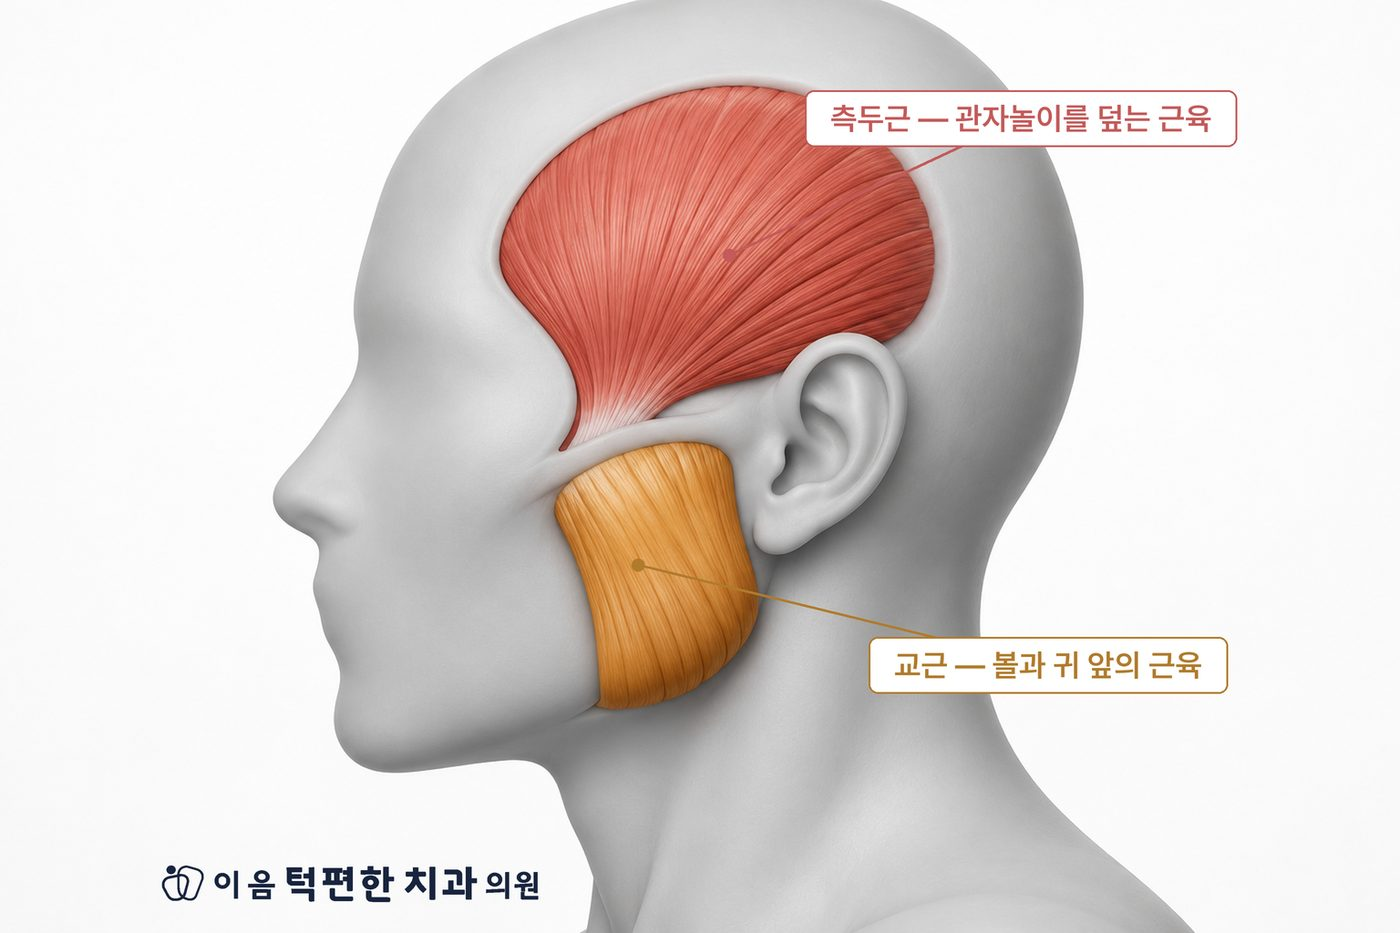
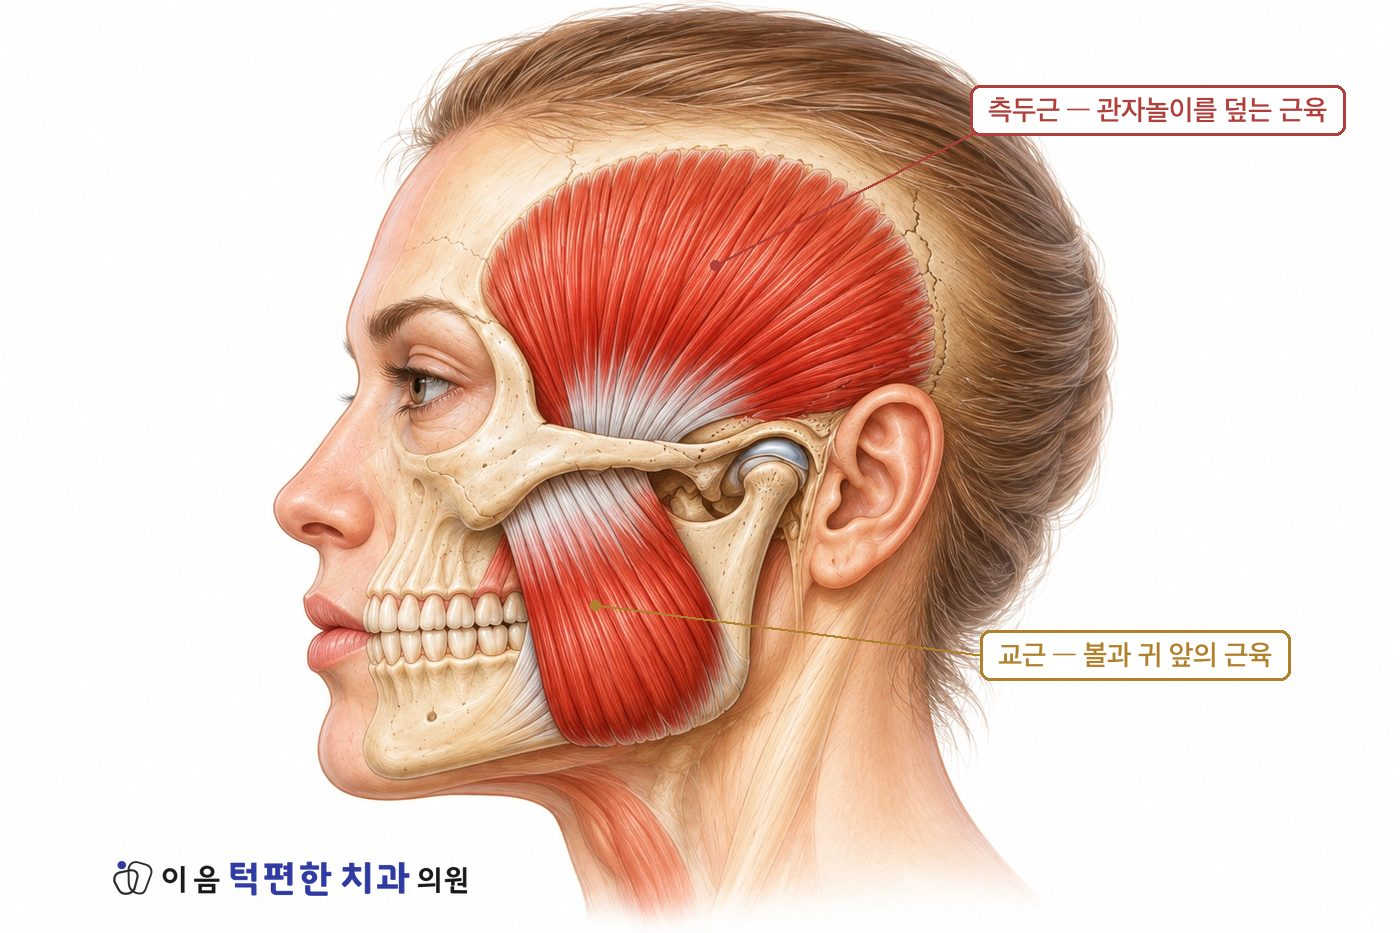
5

diff --git a/index.html b/index.html
@@ -130,14 +130,6 @@
     .jaw-cap b { color: var(--primary-dark); }
     .jaw-note { text-align: center; color: var(--text-light); font-size: 0.9rem; margin-top: 16px; }
     .jaw-note a { color: var(--primary); font-weight: 700; }
-    .symptom-grid { display: grid; grid-template-columns: repeat(4, 1fr); gap: 18px; }
-    .symptom-card { position: relative; background: #fff; border: 1px solid var(--border); border-radius: var(--radius); overflow: hidden; display: flex; flex-direction: column; transition: box-shadow 0.25s, transform 0.25s; }
-    .symptom-card:hover { box-shadow: 0 12px 28px rgba(15,76,99,0.14); transform: translateY(-3px); }
-    .symptom-card .card-photo { aspect-ratio: 3 / 2; overflow: hidden; }
-    .symptom-card .card-photo img { width: 100%; height: 100%; object-fit: cover; transition: transform 0.4s ease; }
-    .symptom-card:hover .card-photo img { transform: scale(1.04); }
-    .symptom-card .card-label { padding: 13px 8px; text-align: center; font-weight: 800; font-size: 1.02rem; color: var(--text); }
-    .symptom-card:hover .card-label { color: var(--primary); }
     .card-badge { position: absolute; z-index: 2; top: 10px; right: 10px; background: var(--primary); color: #fff; font-size: 0.74rem; font-weight: 700; padding: 4px 10px; border-radius: 999px; }
     .ba-compact { max-width: 680px; margin: 0 auto; }
     .asym-wrap { max-width: 440px; margin: 0 auto 34px; }
@@ -156,8 +148,56 @@
     .btn-line:hover { background: var(--primary); color: #fff; }
     @media (max-width: 860px) {
       .jaw-duo-main { grid-template-columns: 1fr; gap: 40px; }
-      .symptom-grid { grid-template-columns: repeat(2, 1fr); gap: 12px; }
-      .symptom-card .card-label { font-size: 0.92rem; padding: 10px 6px; }
+    }
+    /* ===== 턱관절 연관 증상: 증상 지도 ===== */
+    .symmap { display: grid; grid-template-columns: minmax(300px, 400px) 1fr; gap: 40px; align-items: center; }
+    .symmap-figure { position: relative; border-radius: var(--radius); overflow: hidden; border: 1px solid var(--border); background: #fff; }
+    .symmap-figure img { width: 100%; display: block; }
+    .symmap-glows { position: absolute; inset: 0; pointer-events: none; }
+    .symglow { position: absolute; border-radius: 50%;
+      background: radial-gradient(ellipse at center, rgba(203, 40, 28, 0.78) 0%, rgba(203, 40, 28, 0.4) 45%, rgba(203, 40, 28, 0) 72%);
+      animation: symGlow 1.6s ease-in-out infinite; }
+    @keyframes symGlow { 0%, 100% { opacity: 0.4; transform: scale(0.96); } 50% { opacity: 1; transform: scale(1.05); } }
+    .symmap-dot { position: absolute; width: 32px; height: 32px; margin: -16px 0 0 -16px; border-radius: 50%; cursor: pointer;
+      background: linear-gradient(180deg, #2a7fa1, var(--primary-dark)); color: #fff; font-weight: 800; font-size: 0.86rem;
+      display: flex; align-items: center; justify-content: center; font-family: inherit;
+      border: 2px solid #fff; box-shadow: 0 3px 0 rgba(15, 76, 99, 0.45), 0 5px 12px rgba(15, 76, 99, 0.3);
+      transition: transform 0.15s, background 0.2s, box-shadow 0.15s; }
+    .symmap-dot:hover { transform: scale(1.18); }
+    .symmap-dot:active { transform: translateY(2px); box-shadow: 0 1px 0 rgba(15, 76, 99, 0.45), 0 2px 6px rgba(15, 76, 99, 0.3); }
+    .symmap-dot.on { background: linear-gradient(180deg, #e4574a, #b03e3a); transform: scale(1.22); }
+    .symmap-list { list-style: none; display: grid; grid-template-columns: 1fr; gap: 12px; }
+    .symrow { display: flex; align-items: center; gap: 12px; padding: 13px 16px; cursor: pointer;
+      font-size: 1rem; color: var(--text);
+      background: linear-gradient(180deg, #ffffff, #f1f6f8); border: 1px solid var(--border); border-radius: 12px;
+      box-shadow: 0 5px 0 #c9d8e0, 0 9px 18px rgba(15, 76, 99, 0.12);
+      transition: transform 0.12s, box-shadow 0.12s, border-color 0.15s, background 0.15s; }
+    .symrow:hover { border-color: var(--primary); }
+    .symrow:hover .arr { transform: translateX(3px); }
+    .symrow:active { transform: translateY(5px); box-shadow: 0 0 0 #c9d8e0, 0 1px 3px rgba(15, 76, 99, 0.15); }
+    .symrow.on { background: linear-gradient(180deg, #fdf0ee, #fae3e0); border-color: #d08078; }
+    .symrow .no { flex: 0 0 26px; width: 26px; height: 26px; border-radius: 50%; background: var(--primary);
+      color: #fff; display: flex; align-items: center; justify-content: center; font-weight: 800; font-size: 0.82rem; }
+    .symrow.on .no { background: #c24a40; }
+    .symrow .t { font-weight: 800; }
+    .symrow .more { margin-left: auto; display: flex; align-items: center; gap: 5px; white-space: nowrap;
+      padding: 6px 12px; border-radius: 999px; background: #e3eef3; color: var(--primary-dark);
+      font-weight: 700; font-size: 0.82rem; transition: background 0.15s; }
+    .symrow:hover .more { background: var(--primary); color: #fff; }
+    .symrow .arr { transition: transform 0.15s; }
+    .symrow .mt-short { display: none; }
+    @media (max-width: 860px) {
+      .symmap { grid-template-columns: 1fr; gap: 22px; }
+      .symmap-figure { max-width: 420px; margin: 0 auto; }
+      .symmap-list { grid-template-columns: 1fr 1fr; gap: 10px 12px; }
+      .symrow .mt-full { display: none; }
+      .symrow .mt-short { display: inline; }
+    }
+    @media (max-width: 600px) {
+      .symmap-list { grid-template-columns: 1fr; }
+      .symrow .mt-full { display: inline; }
+      .symrow .mt-short { display: none; }
+      .symmap-dot { width: 27px; height: 27px; margin: -14px 0 0 -14px; font-size: 0.78rem; }
     }
   </style>
 </head>
@@ -259,53 +299,88 @@
       <div class="section-title">
         <span class="label">Symptoms</span>
         <h2>턱관절 연관 증상</h2>
-        <p>증상을 누르면 설명으로 이동합니다.</p>
+        <p>그림의 번호를 누르면 관련 부위가 표시되고, 아래 증상을 누르면 자세한 설명으로 이동합니다.</p>
       </div>
-      <div class="symptom-grid">
-
-        <a class="symptom-card" href="learn/ear.html">
-          <div class="card-photo"><img src="learn/img/cards/card-ear.jpg" alt="귀 앞을 짚고 있는 여성" loading="lazy" /></div>
-          <div class="card-label">이명 · 귀 먹먹함</div>
-        </a>
-
-        <a class="symptom-card" href="learn/headache.html">
-          <div class="card-photo"><img src="learn/img/cards/card-headache.jpg" alt="관자놀이를 짚은 여성" loading="lazy" /></div>
-          <div class="card-label">두통</div>
-        </a>
-
-        <a class="symptom-card" href="learn/sound.html">
-          <div class="card-photo"><img src="learn/img/cards/card-sound.jpg" alt="턱에 손을 댄 여성" loading="lazy" /></div>
-          <div class="card-label">턱 소리</div>
-        </a>
-
-        <a class="symptom-card" href="learn/lock.html">
-          <div class="card-photo"><img src="learn/img/cards/card-lock.jpg" alt="턱에 붕대를 감은 남성" loading="lazy" /></div>
-          <div class="card-label">개구 제한 · 턱 빠짐</div>
-        </a>
-
-        <a class="symptom-card" href="learn/morning.html">
-          <div class="card-photo"><img src="learn/img/cards/card-morning.jpg" alt="이를 악문 옆얼굴" loading="lazy" /></div>
-          <div class="card-label">이갈이 · 아침 턱 통증</div>
-        </a>
-
-        <a class="symptom-card" href="learn/neck.html">
-          <div class="card-photo"><img src="learn/img/cards/card-neck.jpg" alt="목덜미를 잡고 있는 사람" loading="lazy" /></div>
-          <div class="card-label">목 · 어깨 결림</div>
-        </a>
-
-        <a class="symptom-card" href="learn/asymmetry.html">
-          <div class="card-photo"><img src="learn/img/cards/card-asym.jpg" alt="정면 얼굴" loading="lazy" /></div>
-          <div class="card-label">안면비대칭</div>
-        </a>
-
-        <a class="symptom-card" href="learn/chronic.html">
-          <div class="card-photo"><img src="learn/img/cards/card-chronic.jpg" alt="치과 진료실의 환자" loading="lazy" /></div>
-          <div class="card-label">만성 통증</div>
-        </a>
-
+      <div class="symmap">
+        <div class="symmap-figure">
+          <img src="images/symptom-map.jpg" alt="턱관절 연관 증상 지도 — 옆모습 그림 위에 증상 위치를 번호로 표시" />
+          <div class="symmap-glows" aria-hidden="true"></div>
+          <button type="button" class="symmap-dot" style="left:40.0%;top:25.5%" data-sym="1" aria-label="두통 부위 표시" aria-pressed="false"><span>1</span></button>
+          <button type="button" class="symmap-dot" style="left:53.5%;top:38.0%" data-sym="2" aria-label="이명 · 귀 먹먹함 부위 표시" aria-pressed="false"><span>2</span></button>
+          <button type="button" class="symmap-dot" style="left:45.0%;top:36.5%" data-sym="3" aria-label="턱 소리 부위 표시" aria-pressed="false"><span>3</span></button>
+          <button type="button" class="symmap-dot" style="left:43.0%;top:45.0%" data-sym="4" aria-label="개구 제한 · 턱 빠짐 부위 표시" aria-pressed="false"><span>4</span></button>
+          <button type="button" class="symmap-dot" style="left:31.0%;top:46.0%" data-sym="5" aria-label="이갈이 · 아침 턱 통증 부위 표시" aria-pressed="false"><span>5</span></button>
+          <button type="button" class="symmap-dot" style="left:21.0%;top:53.0%" data-sym="6" aria-label="안면비대칭 부위 표시" aria-pressed="false"><span>6</span></button>
+          <button type="button" class="symmap-dot" style="left:57.0%;top:67.0%" data-sym="7" aria-label="목 · 어깨 결림 부위 표시" aria-pressed="false"><span>7</span></button>
+          <button type="button" class="symmap-dot" style="left:44.0%;top:9.0%" data-sym="8" aria-label="만성 통증 부위 표시" aria-pressed="false"><span>8</span></button>
+        </div>
+        <ol class="symmap-list">
+          <li>
+            <a class="symrow" href="learn/headache.html" data-sym="1"><span class="no">1</span><span class="t">두통</span><span class="more"><span class="mt-full">더 알아보기</span><span class="mt-short">더 보기</span><svg class="arr" viewBox="0 0 24 24" width="14" height="14" fill="none" stroke="currentColor" stroke-width="2.6" stroke-linecap="round" stroke-linejoin="round"><path d="M5 12h14M13 6l6 6-6 6"/></svg></span></a>
+          </li>
+          <li>
+            <a class="symrow" href="learn/ear.html" data-sym="2"><span class="no">2</span><span class="t">이명 · 귀 먹먹함</span><span class="more"><span class="mt-full">더 알아보기</span><span class="mt-short">더 보기</span><svg class="arr" viewBox="0 0 24 24" width="14" height="14" fill="none" stroke="currentColor" stroke-width="2.6" stroke-linecap="round" stroke-linejoin="round"><path d="M5 12h14M13 6l6 6-6 6"/></svg></span></a>
+          </li>
+          <li>
+            <a class="symrow" href="learn/sound.html" data-sym="3"><span class="no">3</span><span class="t">턱 소리</span><span class="more"><span class="mt-full">더 알아보기</span><span class="mt-short">더 보기</span><svg class="arr" viewBox="0 0 24 24" width="14" height="14" fill="none" stroke="currentColor" stroke-width="2.6" stroke-linecap="round" stroke-linejoin="round"><path d="M5 12h14M13 6l6 6-6 6"/></svg></span></a>
+          </li>
+          <li>
+            <a class="symrow" href="learn/lock.html" data-sym="4"><span class="no">4</span><span class="t">개구 제한 · 턱 빠짐</span><span class="more"><span class="mt-full">더 알아보기</span><span class="mt-short">더 보기</span><svg class="arr" viewBox="0 0 24 24" width="14" height="14" fill="none" stroke="currentColor" stroke-width="2.6" stroke-linecap="round" stroke-linejoin="round"><path d="M5 12h14M13 6l6 6-6 6"/></svg></span></a>
+          </li>
+          <li>
+            <a class="symrow" href="learn/morning.html" data-sym="5"><span class="no">5</span><span class="t">이갈이 · 아침 턱 통증</span><span class="more"><span class="mt-full">더 알아보기</span><span class="mt-short">더 보기</span><svg class="arr" viewBox="0 0 24 24" width="14" height="14" fill="none" stroke="currentColor" stroke-width="2.6" stroke-linecap="round" stroke-linejoin="round"><path d="M5 12h14M13 6l6 6-6 6"/></svg></span></a>
+          </li>
+          <li>
+            <a class="symrow" href="learn/asymmetry.html" data-sym="6"><span class="no">6</span><span class="t">안면비대칭</span><span class="more"><span class="mt-full">더 알아보기</span><span class="mt-short">더 보기</span><svg class="arr" viewBox="0 0 24 24" width="14" height="14" fill="none" stroke="currentColor" stroke-width="2.6" stroke-linecap="round" stroke-linejoin="round"><path d="M5 12h14M13 6l6 6-6 6"/></svg></span></a>
+          </li>
+          <li>
+            <a class="symrow" href="learn/neck.html" data-sym="7"><span class="no">7</span><span class="t">목 · 어깨 결림</span><span class="more"><span class="mt-full">더 알아보기</span><span class="mt-short">더 보기</span><svg class="arr" viewBox="0 0 24 24" width="14" height="14" fill="none" stroke="currentColor" stroke-width="2.6" stroke-linecap="round" stroke-linejoin="round"><path d="M5 12h14M13 6l6 6-6 6"/></svg></span></a>
+          </li>
+          <li>
+            <a class="symrow" href="learn/chronic.html" data-sym="8"><span class="no">8</span><span class="t">만성 통증</span><span class="more"><span class="mt-full">더 알아보기</span><span class="mt-short">더 보기</span><svg class="arr" viewBox="0 0 24 24" width="14" height="14" fill="none" stroke="currentColor" stroke-width="2.6" stroke-linecap="round" stroke-linejoin="round"><path d="M5 12h14M13 6l6 6-6 6"/></svg></span></a>
+          </li>
+        </ol>
       </div>
     </div>
   </section>
+  <script>
+    (function () {
+      var GLOWS = {"1": [[40, 26, 11, 8]], "2": [[53.5, 38.5, 4.5, 5.5]], "3": [[45, 36.5, 6, 5]], "4": [[43, 45, 6.5, 6]], "5": [[31, 47, 8, 7]], "6": [[16, 54, 5, 4.5], [25, 55, 6, 5], [34, 52, 6, 5], [41, 45, 5, 6]], "7": [[55, 68, 12, 10], [55, 88, 25, 9]], "8": [[44, 14, 17, 10]]};
+      var wrap = document.querySelector('.symmap-glows');
+      var current = null;
+      function render(n) {
+        wrap.innerHTML = '';
+        if (!n) return;
+        GLOWS[n].forEach(function (g) {
+          var d = document.createElement('div');
+          d.className = 'symglow';
+          d.style.left = (g[0] - g[2]) + '%';
+          d.style.top = (g[1] - g[3]) + '%';
+          d.style.width = (g[2] * 2) + '%';
+          d.style.height = (g[3] * 2) + '%';
+          wrap.appendChild(d);
+        });
+      }
+      function mark() {
+        document.querySelectorAll('.symmap [data-sym]').forEach(function (e) {
+          var on = e.dataset.sym === current;
+          e.classList.toggle('on', on);
+          if (e.classList.contains('symmap-dot')) e.setAttribute('aria-pressed', on ? 'true' : 'false');
+        });
+      }
+      document.querySelectorAll('.symmap-dot').forEach(function (el) {
+        el.addEventListener('click', function () {
+          current = (current === el.dataset.sym) ? null : el.dataset.sym;
+          render(current);
+          mark();
+        });
+      });
+      document.querySelectorAll('.symrow').forEach(function (el) {
+        el.addEventListener('mouseenter', function () { render(el.dataset.sym); });
+        el.addEventListener('mouseleave', function () { render(current); });
+      });
+    })();
+  </script>
 
   <!-- ===== 치료 안내 입구 ===== -->
   <section class="section">
